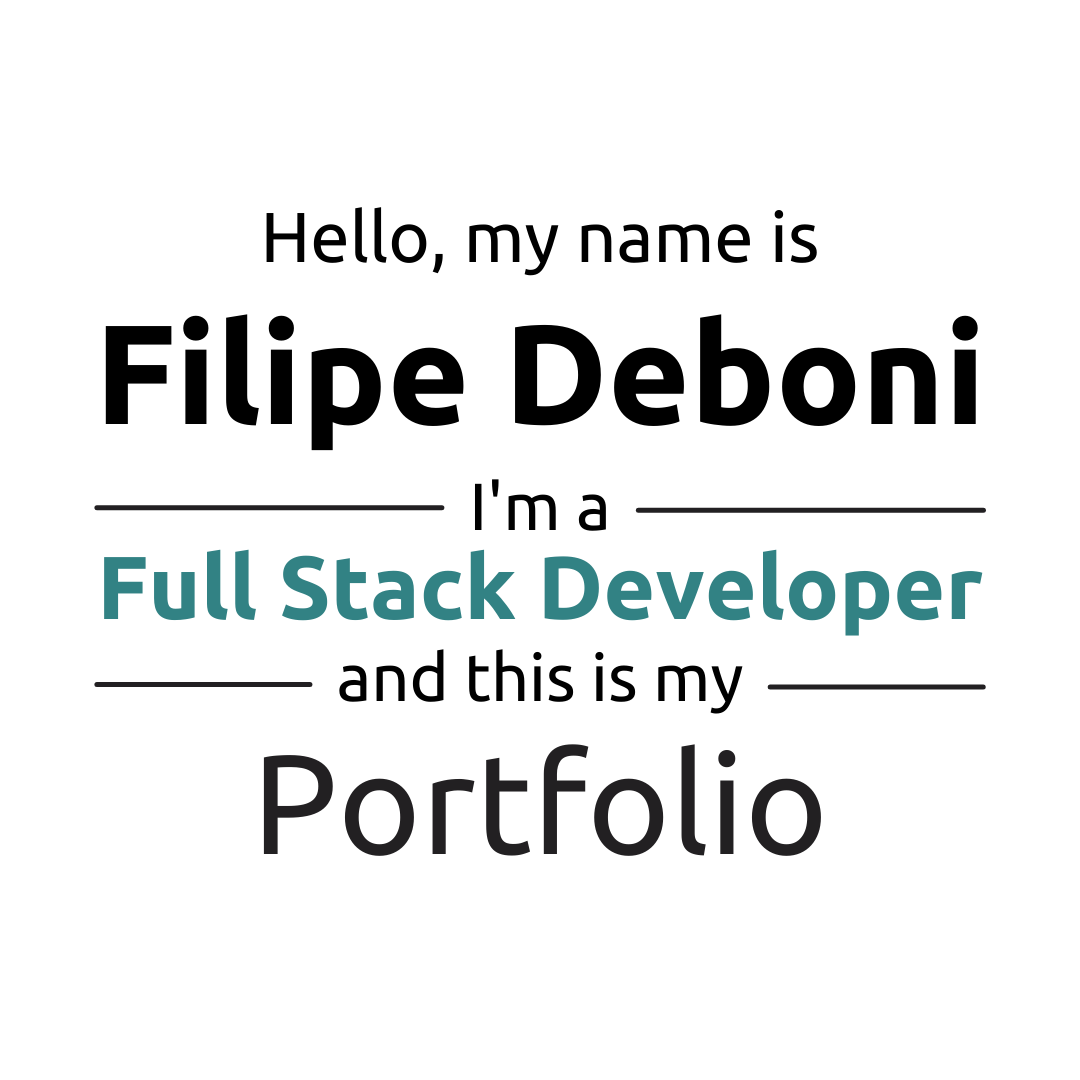
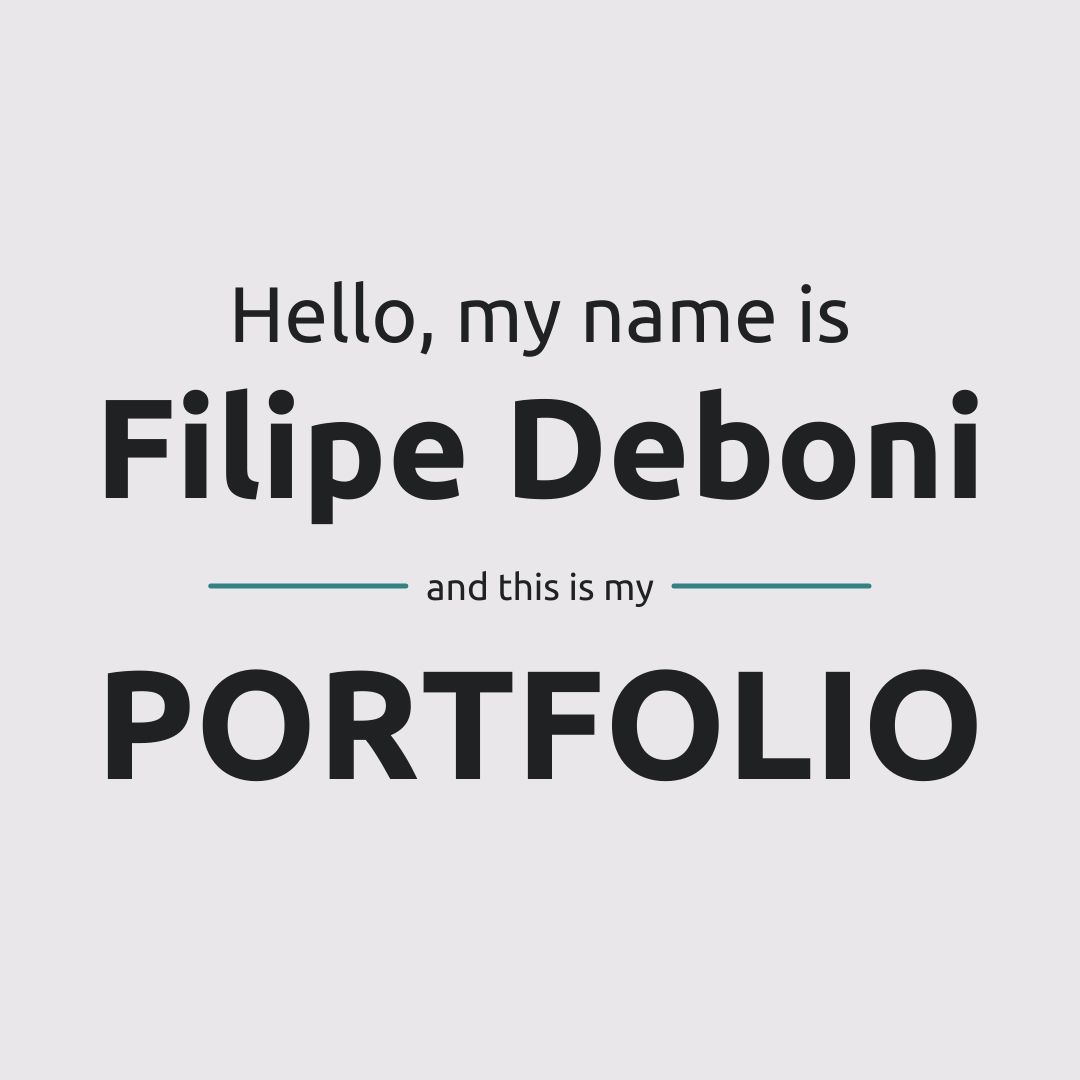
pequenas atualizaçoes em todo o projeto. Imagem og atualizada

Changed region(s): [[0.0917, 0.1833, 0.9167, 0.7944]]

diff --git a/src/components/Projects.js b/src/components/Projects.js
@@ -11,22 +11,12 @@ function Home() {
       <div className="projects" id="projects">    
         <h2 className="title white">Projects</h2>
         <div className="projects-content">
-   
-      
-              {/* <div className="project-card">
-                <Link to="/netflix" >
-                  <img src={ImgProject1} className="box-4"></img>
-                </Link>
-                <div className="project-info">
-                  <div className="project-title">Title</div>
-                  <div className="project-description">description</div>
-                  <div className="project-tags">Tags</div>
-                </div>
-              </div> */}
 
               {/* Project 4 */}
               <div className="project-card col-xs-12 col-sm-11 col-lg-9 col-xl-7" data-toggle="modal" data-target="#exampleModalCenter">
+              <div className="project-img-box">
                 <img src={ImgProject4} alt="Netflix main page with mobile version" className="project-img"></img>
+              </div>
                 <div className="project-info">
                   <div className="project-info-text">
                     <div className="project-title">Netflix</div>
@@ -60,7 +50,9 @@ function Home() {
 
               {/* Project 3 */}
               <div className="project-card col-xs-12 col-sm-11 col-lg-9 col-xl-7" data-toggle="modal" data-target="#exampleModalCenter">
-                <img src={ImgProject3} alt="portfolio website with mobile version" className="project-img"></img>
+                <div className="project-img-box">
+                  <img src={ImgProject3} alt="portfolio website with mobile version" className="project-img"></img>
+                </div>
                 <div className="project-info">
                   <div className="project-info-text">
                     <div className="project-title">Portfolio 2020</div>
@@ -92,7 +84,9 @@ function Home() {
 
               {/* Project 2 */}
               <div className="project-card col-xs-12 col-sm-11 col-lg-9 col-xl-7" data-toggle="modal" data-target="#exampleModalCenter">
-                <img src={ImgProject2} alt="social website with pet pictures" className="project-img"></img>
+                <div className="project-img-box">
+                  <img src={ImgProject2} alt="social website with pet pictures" className="project-img"></img>
+                </div>
                 <div className="project-info">
                   <div className="project-info-text">
                     <div className="project-title">Pet Friend.ly</div>
@@ -118,7 +112,9 @@ function Home() {
 
               {/* Project 1 */}
               <div className="project-card col-xs-12 col-sm-11 col-lg-9 col-xl-7" data-toggle="modal" data-target="#exampleModalCenter">
-                <img src={ImgProject1} alt="website with two worker women pointing to a laptop" className="project-img"></img>
+                <div className="project-img-box">
+                  <img src={ImgProject1} alt="website with two worker women pointing to a laptop" className="project-img"></img>
+                </div>
                 <div className="project-info">
                   <div className="project-info-text">
                     <div className="project-title">Clover: Personal Budget</div>

diff --git a/src/components/About.js b/src/components/About.js
@@ -35,10 +35,6 @@ function Home() {
                   <p>Bootstrap</p>  
                 </div>
                 <div>
-                  <i className="fab fa-java"></i>
-                  <p>Java</p>  
-                </div>
-                <div>
                   <i className="fab fa-node-js"></i>
                   <p>Node.JS</p>  
                 </div>
@@ -65,13 +61,12 @@ function Home() {
             </div>
             <div className="column right">
               <div className="text">
-                <p>I'm Filipe Deboni,<br></br>a <span className="typing-2">Full Stack Developer</span></p>
+                <p>I'm Filipe Deboni,<br></br>a <span className="typing-2">Front End Developer</span></p>
               </div>
               <div>
-                <p>I’m a Full Stack Developer with experience in the Technology field, with postgraduate education in Interaction Design and currently studying graduation in Analysis and Development of Systems and already finished on 2020 the Ironhack Web Development Bootcamp.</p>
-                <p>As a good INTJ and Type 5 personality type, I’m an avid knowledge seeker, analytical, assertive, versatile, curious and creative. On the other hand, things I'm not so good at are to deal with people who put emotions over rationality and when I'm focused I can seem to be in my own world. My bachelor in Psychology helped me a lot with that points, also to think strategically and to relate better with people.</p>
+                <p>I’m a Front End Developer with experience in the Technology field, with postgraduate education in Interaction Design and currently studying graduation in Analysis and Development of Systems and already finished on 2020 the Ironhack Web Development Bootcamp.</p>
+                <p>As a good INTJ personality type, I’m an avid knowledge seeker, analytical, assertive, versatile, curious and creative. On the other hand, things I'm not so good at are to deal with people who put emotions over rationality and when I'm focused I can seem to be in my own world. My bachelor in Psychology helped me a lot with that points, also to think strategically and to relate better with people.</p>
               </div>
-              
 
                <div className="experience-box">
                  <div className="experience mb-3">
@@ -79,11 +74,7 @@ function Home() {
                    <h6>years of experience in Technology field</h6>
                    <p style={{ color:"gray"}}>(since 2016)</p>
                  </div>
-                 <div className="experience mb-3">
-                   <h3>01+</h3>
-                   <h6>years of experience as Software Engineer</h6>
-                   <p style={{ color:"gray"}}>(since 2020)</p>
-                </div>
+ 
               </div>
   
             </div> 
@@ -92,7 +83,7 @@ function Home() {
                 target="_blank"
                 rel="noopener noreferrer"
                 href="https://drive.google.com/file/d/1ujM1CNEUAvpyKsWpXvhTsEyga_k_lA50/view?usp=sharing">
-                Download Resume
+                Download Resume (portuguese)
               </a>
             </div>
           </div>

diff --git a/src/App.css b/src/App.css
@@ -203,6 +203,11 @@ section .title::after{
 .project-card:hover{
   transform: scale(1.05);
 }
+.project-img-box{
+  width: 100%;
+  display: flex;
+  align-items: center;
+}
 .project-img{
   background-position: center;
   background-repeat: no-repeat;
@@ -210,7 +215,8 @@ section .title::after{
   object-fit: cover;
   border-radius: 15px;
   box-shadow: 2px 2px 12px rgba(0,0,0,0.3);
-  width: 60%;
+  width: 100%;
+  height: auto;
 }
 .project-info{
   padding: 0 0 0 20px;
@@ -501,7 +507,7 @@ section .title::after{
   font-size: 28px;
   font-weight: 500;
   padding: 8px;
-  margin: 10px 0 24px 0;
+  margin: 10px 15px 24px 15px;
   border-radius: 15px;
   border: 2px solid var(--tertiary);
   transition: all 0.3s ease;
@@ -570,12 +576,16 @@ section .title::after{
   color: var(--secondary);
   background-color: var(--tertiary);
 }
+.text-contact{
+  margin-left: 110px;
+  margin-right: 110px;
+}
 
 /* ====================== Footer Section ====================== */
 footer{
   background: var(--secondary);
   font-size: 14px;
-  padding: 10px 15px;
+  padding: 20px 15px;
   color: var(--primary);
   text-align: center;
 }
@@ -598,6 +608,10 @@ footer span a:hover{
   .testimonials-content .carousel-control-next{
     margin-right: -25px;
   }
+  .text-contact{
+    margin-left: 100px;
+    margin-right: 100px;
+  }
 }
 @media (max-width: 1199px){
   .home .home-content .img-box,
@@ -614,6 +628,10 @@ footer span a:hover{
   }
   .testimonials-content .carousel-control-next{
     margin-right: -15px;
+  }
+  .text-contact{
+    margin-left: 80px;
+    margin-right: 80px;
   }
 }
 
@@ -678,6 +696,10 @@ footer span a:hover{
   .testimonials-content .carousel-control-next{
     font-size: 0;
   }
+  .text-contact{
+    margin-left: 100px;
+    margin-right: 100px;
+  }
 }
 
 @media (max-width: 767px){
@@ -710,9 +732,6 @@ footer span a:hover{
     flex-direction: column;
     align-items: center;
   }
-  .project-img{
-    width: 100%;
-  }
   .project-info{
     padding: 0;
   }
@@ -743,6 +762,10 @@ footer span a:hover{
   .testimonials-content .single-box .card-text{
     font-size: 14px;
   }
+  .text-contact{
+    margin-left: 70px;
+    margin-right: 70px;
+  }
 }
 
 @media (max-width: 500px){
@@ -764,5 +787,9 @@ footer span a:hover{
   }
   .about, .projects, .contact, footer{
     font-size: 0.95rem;
+  }
+  .text-contact{
+    margin-left: 40px;
+    margin-right: 40px;
   }
 }

diff --git a/src/components/Contact.js b/src/components/Contact.js
@@ -7,8 +7,11 @@ function Home() {
           <h2 className="title">Contact me</h2>
             <div className="contact-content">
               <div className="column left">
-                <div className="subtitle">Get in touch</div>
-                <p className="text">If you want to get in touch or just say hi, feel free to reach me out through any platform bellow and let's talk.</p>
+                {/* <div className="subtitle">Get in touch</div> */}
+                <p className="text text-contact">If you want to get in touch or just say hi, feel free to reach me out through any platform and let's talk.</p>
+              </div>
+
+              <div className="column right">
                 <div className="row">
                   <a href="mailto:deboni.filipe@gmail.com">
                     <i className="far fa-envelope-open"></i>
@@ -26,7 +29,7 @@ function Home() {
                 </div>
               </div>
               
-              <div className="column right">
+              {/* <div className="column right">
                 <div className="subtitle">Message me</div>
                 <form action="#">
                   <div className="fields">
@@ -49,7 +52,7 @@ function Home() {
                     href="https://github.com/FilipeDeboni">Use my LinkedIn instead ;)</button>
                   </div>
                 </form>
-              </div>
+              </div> */}
             </div>
         </div>
     </section>

diff --git a/src/components/Home.js b/src/components/Home.js
@@ -11,7 +11,7 @@ function Home() {
             <div className="home-text">
               <div className="text-1">Hello, my name is</div>
               <div className="text-2">Filipe Deboni</div>
-              <div className="text-3">and I'm a <span className="typing">Full Stack Developer</span> </div>
+              <div className="text-3">and I'm a <span className="typing">Front End Developer</span></div>
             </div>
             <div className="img-box">
             <div className="home-img"></div>

diff --git a/public/index.html b/public/index.html
@@ -11,7 +11,7 @@
     />
     <meta
       property="og:image"
-      content="https://res.cloudinary.com/filipedeboni/image/upload/v1622309226/Portfolio/Portfolio-2021-og_h8d53q.png"
+      content="https://res.cloudinary.com/filipedeboni/image/upload/v1633999088/Portfolio/Portfolio_Mockup_rsip0j.png"
     />
     <!-- <link rel="apple-touch-icon" href="%PUBLIC_URL%/logo192.png" /> -->
     <!--
